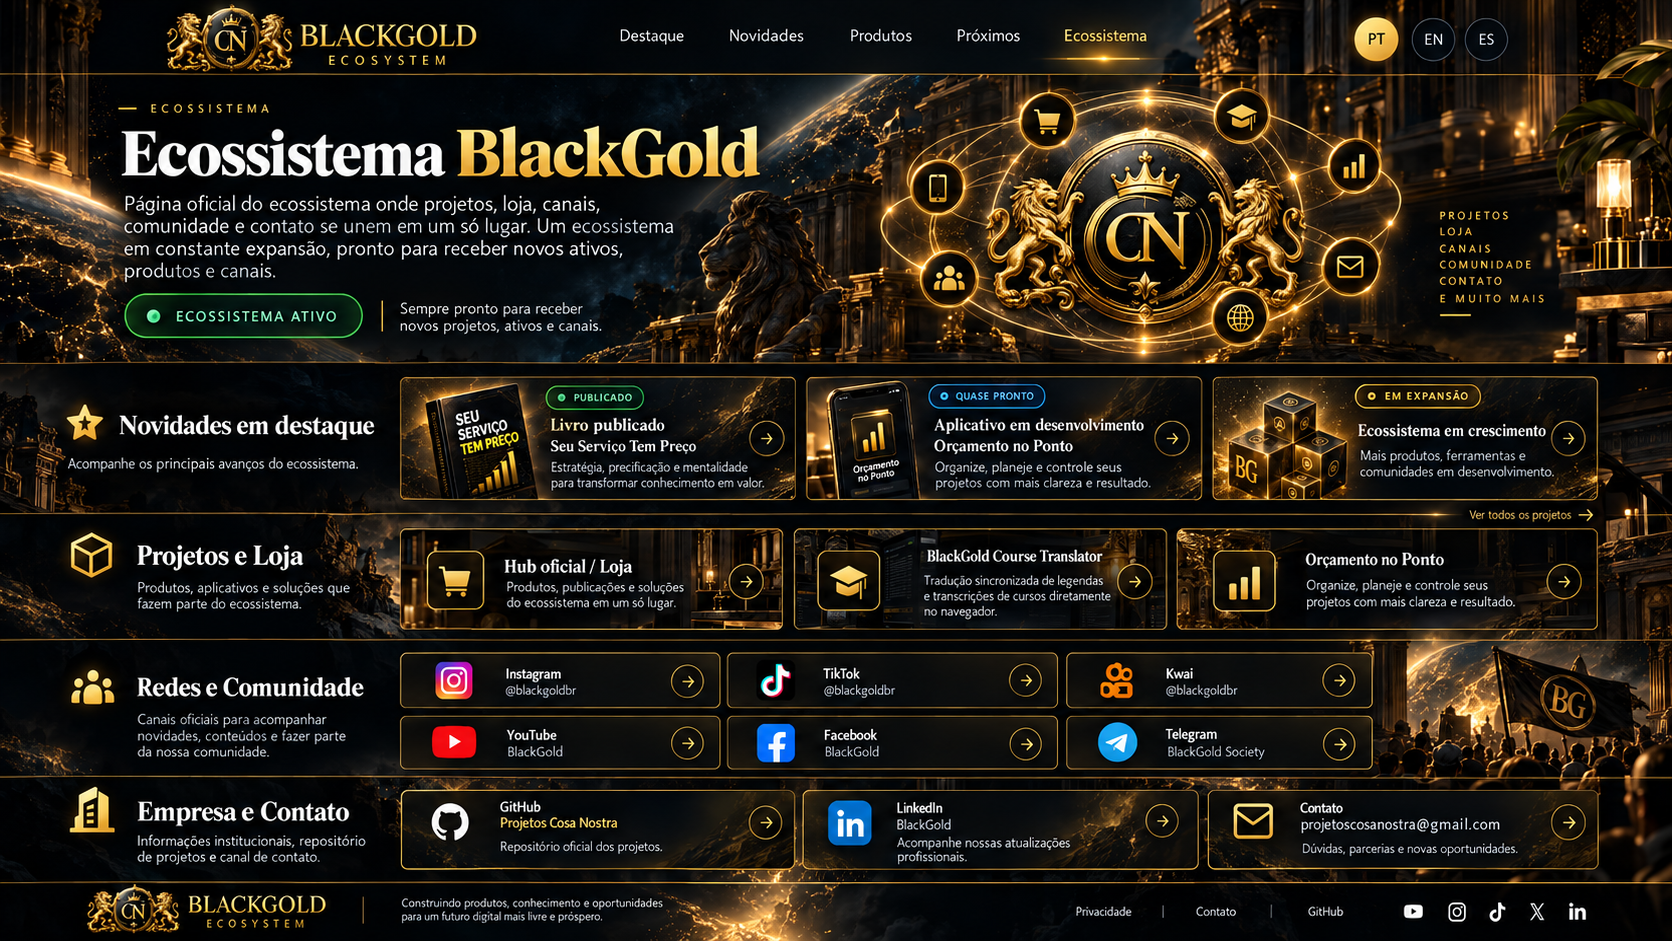
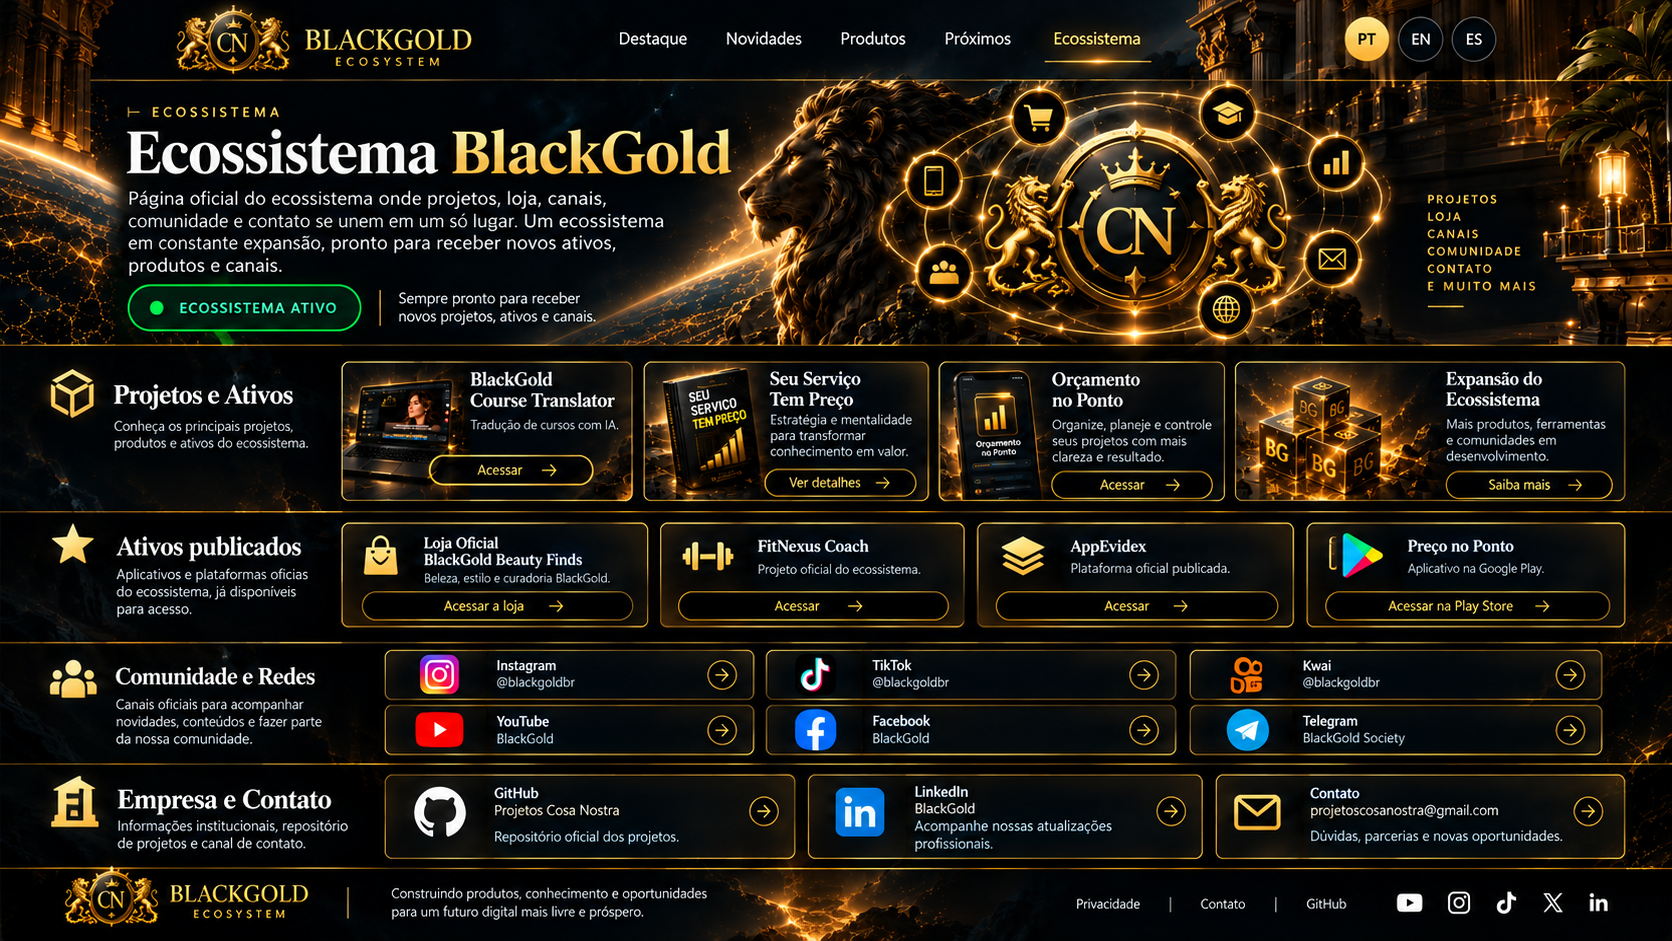
feat: apply approved Ecosystem visual V2

diff --git a/docs/ecosystem.html b/docs/ecosystem.html
@@ -15,10 +15,58 @@
 <a href="next.html">Próximos</a>
 <a href="ecosystem.html">Ecossistema</a>
 </nav>
-<main class="visual-shell" aria-label="Ecossistema — BlackGold">
-<img src="assets/approved/page-ecosistema.png" width="1672" height="941" alt="Ecossistema — BlackGold — visual aprovado BlackGold Ecosystem">
-<a class="hotspot" data-action="home" aria-label="Destaque" style="left:35.4%;top:0.0%;width:7.5%;height:7.7%"></a><a class="hotspot" data-action="news" aria-label="Novidades" style="left:43.0%;top:0.0%;width:7.2%;height:7.7%"></a><a class="hotspot" data-action="products" aria-label="Produtos" style="left:50.2%;top:0.0%;width:7.0%;height:7.7%"></a><a class="hotspot" data-action="next" aria-label="Próximos" style="left:57.2%;top:0.0%;width:6.9%;height:7.7%"></a><a class="hotspot" data-action="ecosystem" aria-label="Ecossistema" style="left:64.0%;top:0.0%;width:8.3%;height:7.7%"></a><a class="hotspot" data-action="lang-pt" aria-label="Português" style="left:79.2%;top:0.5%;width:3.6%;height:6.2%"></a><a class="hotspot" data-action="lang-en" aria-label="English" style="left:83.0%;top:0.5%;width:3.5%;height:6.2%"></a><a class="hotspot" data-action="lang-es" aria-label="Español" style="left:86.7%;top:0.5%;width:3.5%;height:6.2%"></a><a class="hotspot" data-action="privacy" aria-label="Privacidade" style="left:66.0%;top:94.0%;width:5.8%;height:5.4%"></a><a class="hotspot" data-action="contact" aria-label="Contato" style="left:72.4%;top:94.0%;width:5.0%;height:5.4%"></a><a class="hotspot" data-action="github" aria-label="GitHub" style="left:78.3%;top:94.0%;width:4.8%;height:5.4%"></a><a class="hotspot" data-action="youtube" aria-label="YouTube" style="left:84.1%;top:94.0%;width:2.4%;height:5.4%"></a><a class="hotspot" data-action="instagram" aria-label="Instagram" style="left:86.3%;top:94.0%;width:2.4%;height:5.4%"></a><a class="hotspot" data-action="tiktok" aria-label="TikTok" style="left:88.6%;top:94.0%;width:2.4%;height:5.4%"></a><a class="hotspot" data-action="x" aria-label="X" style="left:91.1%;top:94.0%;width:2.3%;height:5.4%"></a><a class="hotspot" data-action="linkedin" aria-label="LinkedIn" style="left:93.4%;top:94.0%;width:3.2%;height:5.4%"></a><a class="hotspot" data-action="store" aria-label="Hub oficial / Loja" style="left:23.8%;top:55.7%;width:23.2%;height:10.4%"></a><a class="hotspot" data-action="course" aria-label="BlackGold Course Translator" style="left:48.0%;top:55.7%;width:22.2%;height:10.4%"></a><a class="hotspot" data-action="budget" aria-label="Orçamento no Ponto" style="left:71.0%;top:55.7%;width:24.4%;height:10.4%"></a><a class="hotspot" data-action="instagram" aria-label="Instagram" style="left:23.8%;top:68.8%;width:19.3%;height:5.8%"></a><a class="hotspot" data-action="tiktok" aria-label="TikTok" style="left:43.5%;top:68.8%;width:19.5%;height:5.8%"></a><a class="hotspot" data-action="kwai" aria-label="Kwai" style="left:63.4%;top:68.8%;width:18.9%;height:5.8%"></a><a class="hotspot" data-action="youtube" aria-label="YouTube" style="left:23.8%;top:75.3%;width:19.3%;height:5.8%"></a><a class="hotspot" data-action="facebook" aria-label="Facebook" style="left:43.5%;top:75.3%;width:19.5%;height:5.8%"></a><a class="hotspot" data-action="telegram" aria-label="Telegram" style="left:63.4%;top:75.3%;width:18.9%;height:5.8%"></a><a class="hotspot" data-action="github" aria-label="GitHub" style="left:23.8%;top:83.2%;width:23.3%;height:7.3%"></a><a class="hotspot" data-action="linkedin" aria-label="LinkedIn" style="left:47.8%;top:83.2%;width:22.5%;height:7.3%"></a><a class="hotspot" data-action="contact" aria-label="Contato" style="left:71.0%;top:83.2%;width:24.0%;height:7.3%"></a>
+
+<main class="visual-shell" aria-label="Ecossistema BlackGold">
+<img src="assets/approved/page-ecosistema.png" width="1672" height="941" alt="Ecossistema BlackGold — visual aprovado V2">
+
+<!-- Header -->
+<a class="hotspot" data-action="home" aria-label="Destaque" style="left:35.5%;top:0.0%;width:7.4%;height:8.2%"></a>
+<a class="hotspot" data-action="news" aria-label="Novidades" style="left:43.0%;top:0.0%;width:7.2%;height:8.2%"></a>
+<a class="hotspot" data-action="products" aria-label="Produtos" style="left:50.2%;top:0.0%;width:7.0%;height:8.2%"></a>
+<a class="hotspot" data-action="next" aria-label="Próximos" style="left:57.1%;top:0.0%;width:7.0%;height:8.2%"></a>
+<a class="hotspot" data-action="ecosystem" aria-label="Ecossistema" style="left:64.1%;top:0.0%;width:8.4%;height:8.2%"></a>
+
+<a class="hotspot" data-action="lang-pt" aria-label="Português" style="left:79.1%;top:0.4%;width:3.7%;height:7.0%"></a>
+<a class="hotspot" data-action="lang-en" aria-label="English" style="left:82.9%;top:0.4%;width:3.7%;height:7.0%"></a>
+<a class="hotspot" data-action="lang-es" aria-label="Español" style="left:86.8%;top:0.4%;width:3.7%;height:7.0%"></a>
+
+<!-- Projetos e Ativos -->
+<a class="hotspot" data-action="course" aria-label="BlackGold Course Translator" style="left:20.3%;top:38.1%;width:17.4%;height:14.5%"></a>
+<a class="hotspot" data-action="book" aria-label="Seu Serviço Tem Preço" style="left:38.2%;top:38.1%;width:17.2%;height:14.5%"></a>
+<a class="hotspot" data-action="budget" aria-label="Orçamento no Ponto" style="left:56.0%;top:38.1%;width:17.2%;height:14.5%"></a>
+<a class="hotspot" data-action="next" aria-label="Expansão do Ecossistema" style="left:73.8%;top:38.1%;width:23.3%;height:14.5%"></a>
+
+<!-- Ativos publicados -->
+<a class="hotspot" data-action="store" aria-label="Loja Oficial — BlackGold Beauty Finds" style="left:20.4%;top:54.7%;width:18.3%;height:10.9%"></a>
+<a class="hotspot" data-action="fitnexus" aria-label="FitNexus Coach" style="left:39.3%;top:54.7%;width:18.3%;height:10.9%"></a>
+<a class="hotspot" data-action="appevidex" aria-label="AppEvidex" style="left:58.3%;top:54.7%;width:18.3%;height:10.9%"></a>
+<a class="hotspot" data-action="price_no_ponto" aria-label="Preço no Ponto — Play Store" style="left:77.4%;top:54.7%;width:19.6%;height:10.9%"></a>
+
+<!-- Comunidade e Redes -->
+<a class="hotspot" data-action="instagram" aria-label="Instagram" style="left:22.7%;top:68.1%;width:22.8%;height:5.7%"></a>
+<a class="hotspot" data-action="tiktok" aria-label="TikTok" style="left:45.9%;top:68.1%;width:22.5%;height:5.7%"></a>
+<a class="hotspot" data-action="kwai" aria-label="Kwai" style="left:69.0%;top:68.1%;width:26.9%;height:5.7%"></a>
+
+<a class="hotspot" data-action="youtube" aria-label="YouTube" style="left:22.7%;top:74.5%;width:22.8%;height:5.7%"></a>
+<a class="hotspot" data-action="facebook" aria-label="Facebook" style="left:45.9%;top:74.5%;width:22.5%;height:5.7%"></a>
+<a class="hotspot" data-action="telegram" aria-label="Telegram" style="left:69.0%;top:74.5%;width:26.9%;height:5.7%"></a>
+
+<!-- Empresa e Contato -->
+<a class="hotspot" data-action="github" aria-label="GitHub — Projetos Cosa Nostra" style="left:22.8%;top:81.4%;width:24.6%;height:8.6%"></a>
+<a class="hotspot" data-action="linkedin" aria-label="LinkedIn" style="left:48.0%;top:81.4%;width:23.5%;height:8.6%"></a>
+<a class="hotspot" data-action="contact" aria-label="Contato — projetoscosanostra@gmail.com" style="left:72.0%;top:81.4%;width:24.7%;height:8.6%"></a>
+
+<!-- Footer -->
+<a class="hotspot" data-action="privacy" aria-label="Privacidade" style="left:63.3%;top:92.0%;width:6.2%;height:7.2%"></a>
+<a class="hotspot" data-action="contact" aria-label="Contato" style="left:70.0%;top:92.0%;width:5.3%;height:7.2%"></a>
+<a class="hotspot" data-action="github" aria-label="GitHub" style="left:76.0%;top:92.0%;width:5.1%;height:7.2%"></a>
+<a class="hotspot" data-action="youtube" aria-label="YouTube" style="left:82.2%;top:92.0%;width:2.5%;height:7.2%"></a>
+<a class="hotspot" data-action="instagram" aria-label="Instagram" style="left:85.0%;top:92.0%;width:2.5%;height:7.2%"></a>
+<a class="hotspot" data-action="tiktok" aria-label="TikTok" style="left:87.8%;top:92.0%;width:2.5%;height:7.2%"></a>
+<a class="hotspot" data-action="x" aria-label="X" style="left:90.6%;top:92.0%;width:2.5%;height:7.2%"></a>
+<a class="hotspot" data-action="linkedin" aria-label="LinkedIn" style="left:93.4%;top:92.0%;width:2.8%;height:7.2%"></a>
 </main>
+
 <script src="assets/site.js"></script>
 </body>
 </html>

diff --git a/docs/assets/site.js b/docs/assets/site.js
@@ -238,8 +238,4 @@
     addHotspot("panel-channels",    77.3, 86.0, 18.0, 6.8, "Canais oficiais");
   }
 
-  // "Ver todos os projetos" on the Ecosystem page.
-  if (page === "ecosystem.html") {
-    addHotspot("panel-all", 83.7, 52.5, 12.0, 3.6, "Ver todos os projetos");
-  }
 })();
